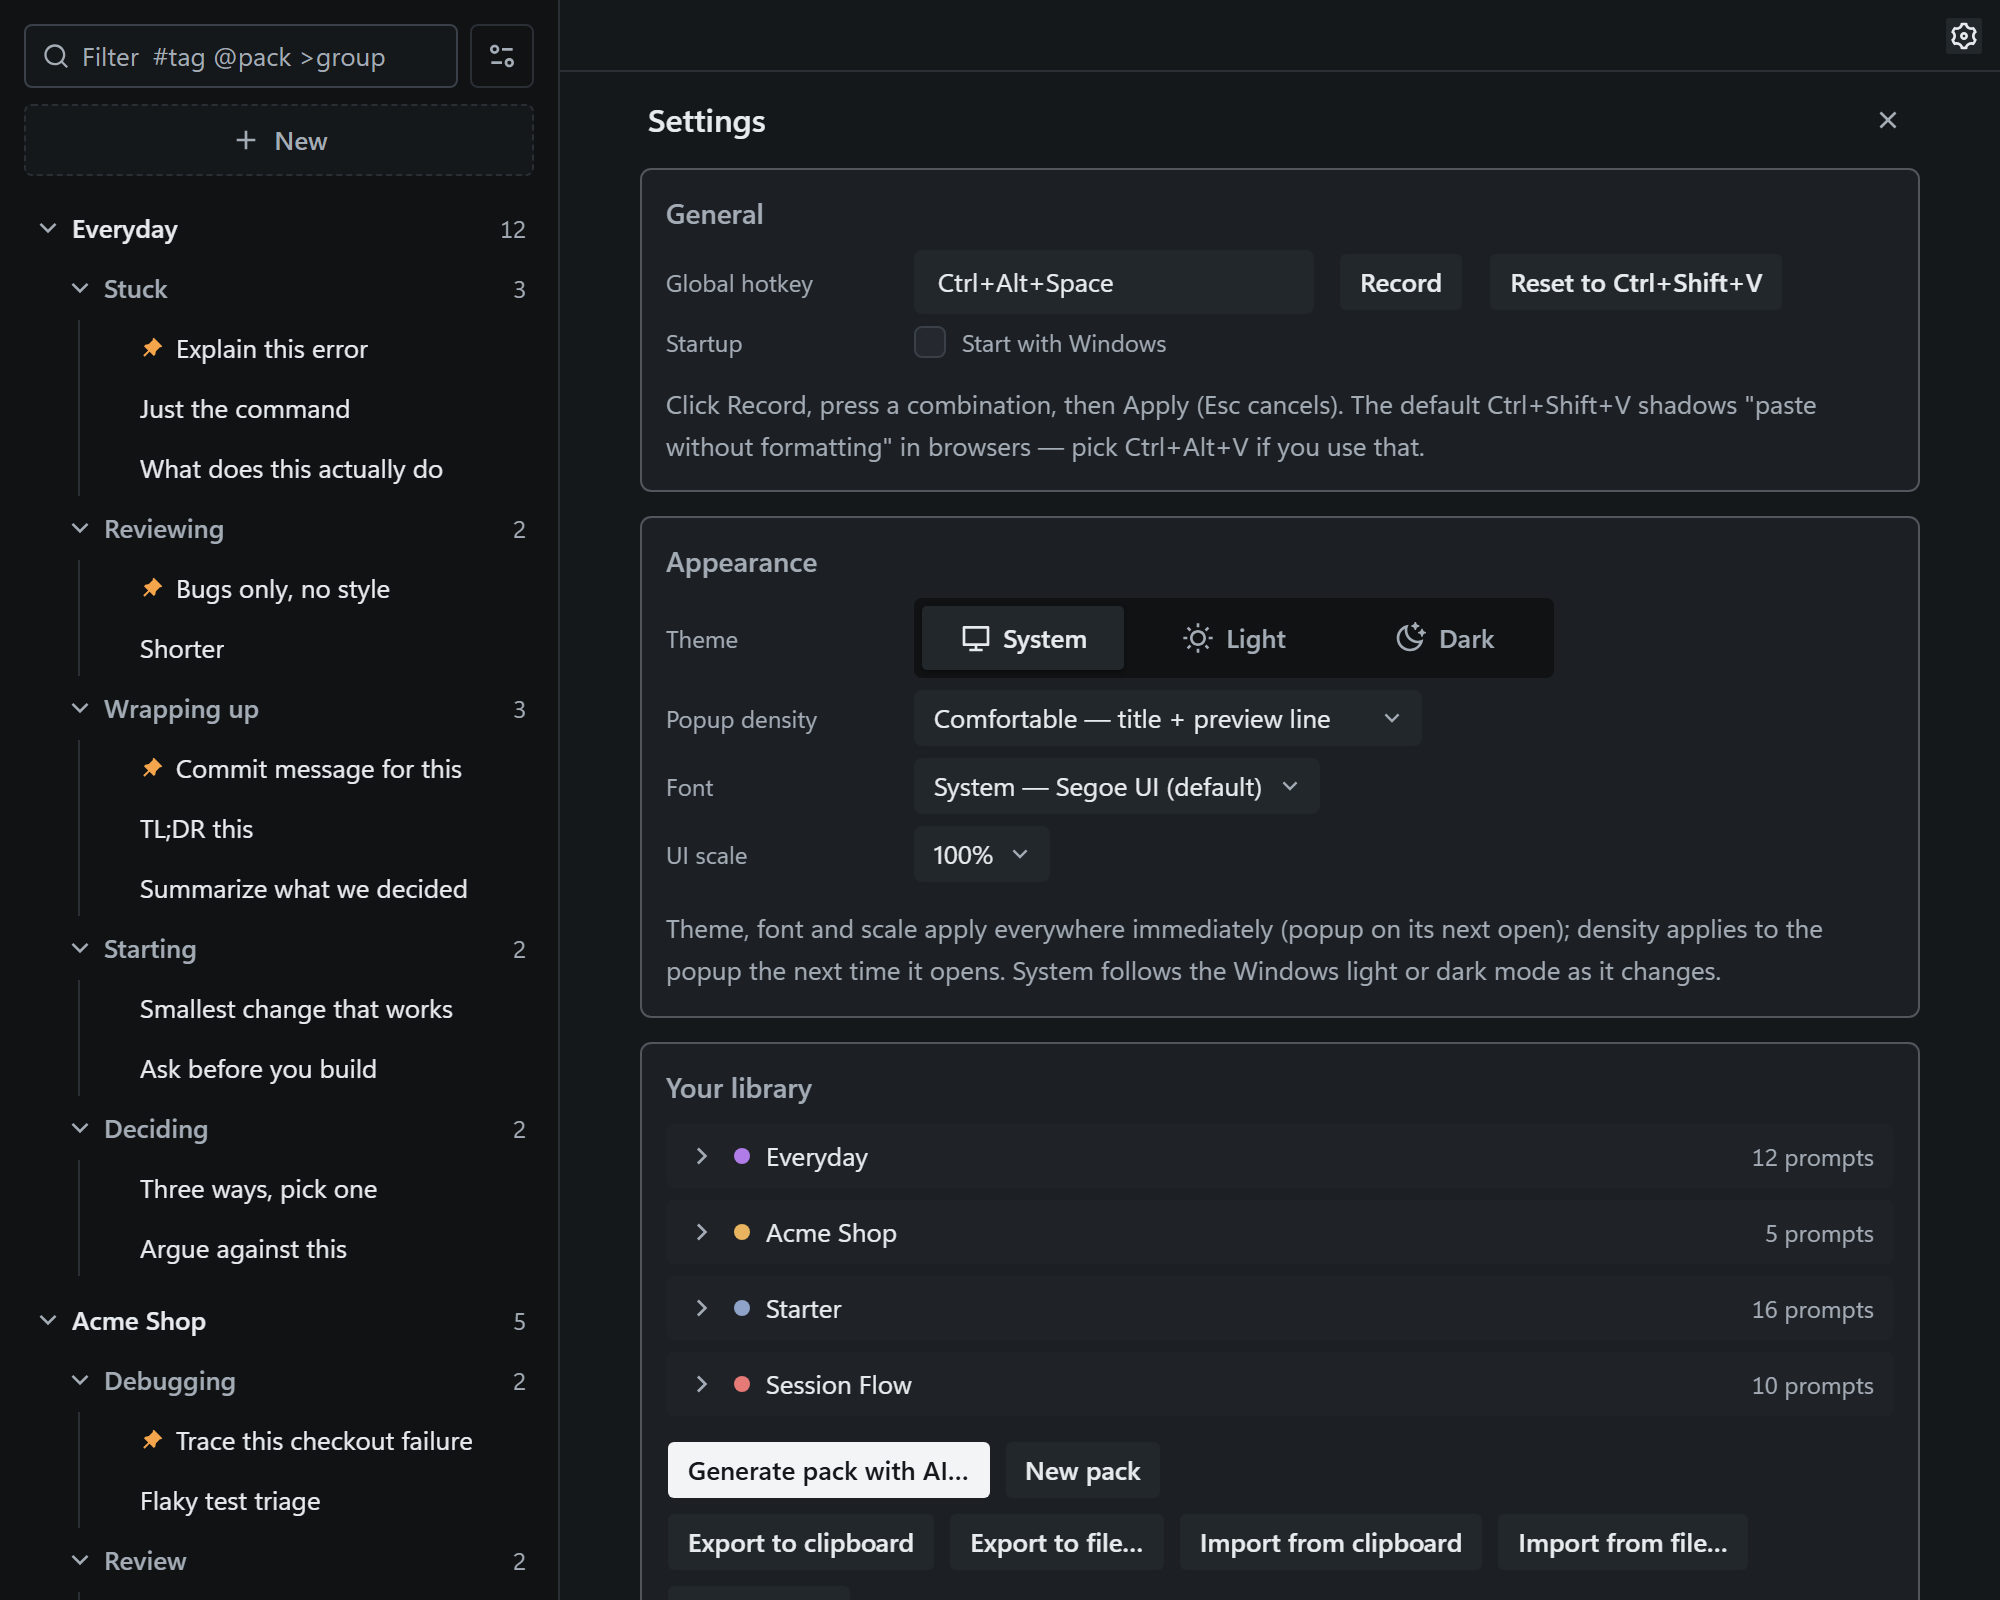
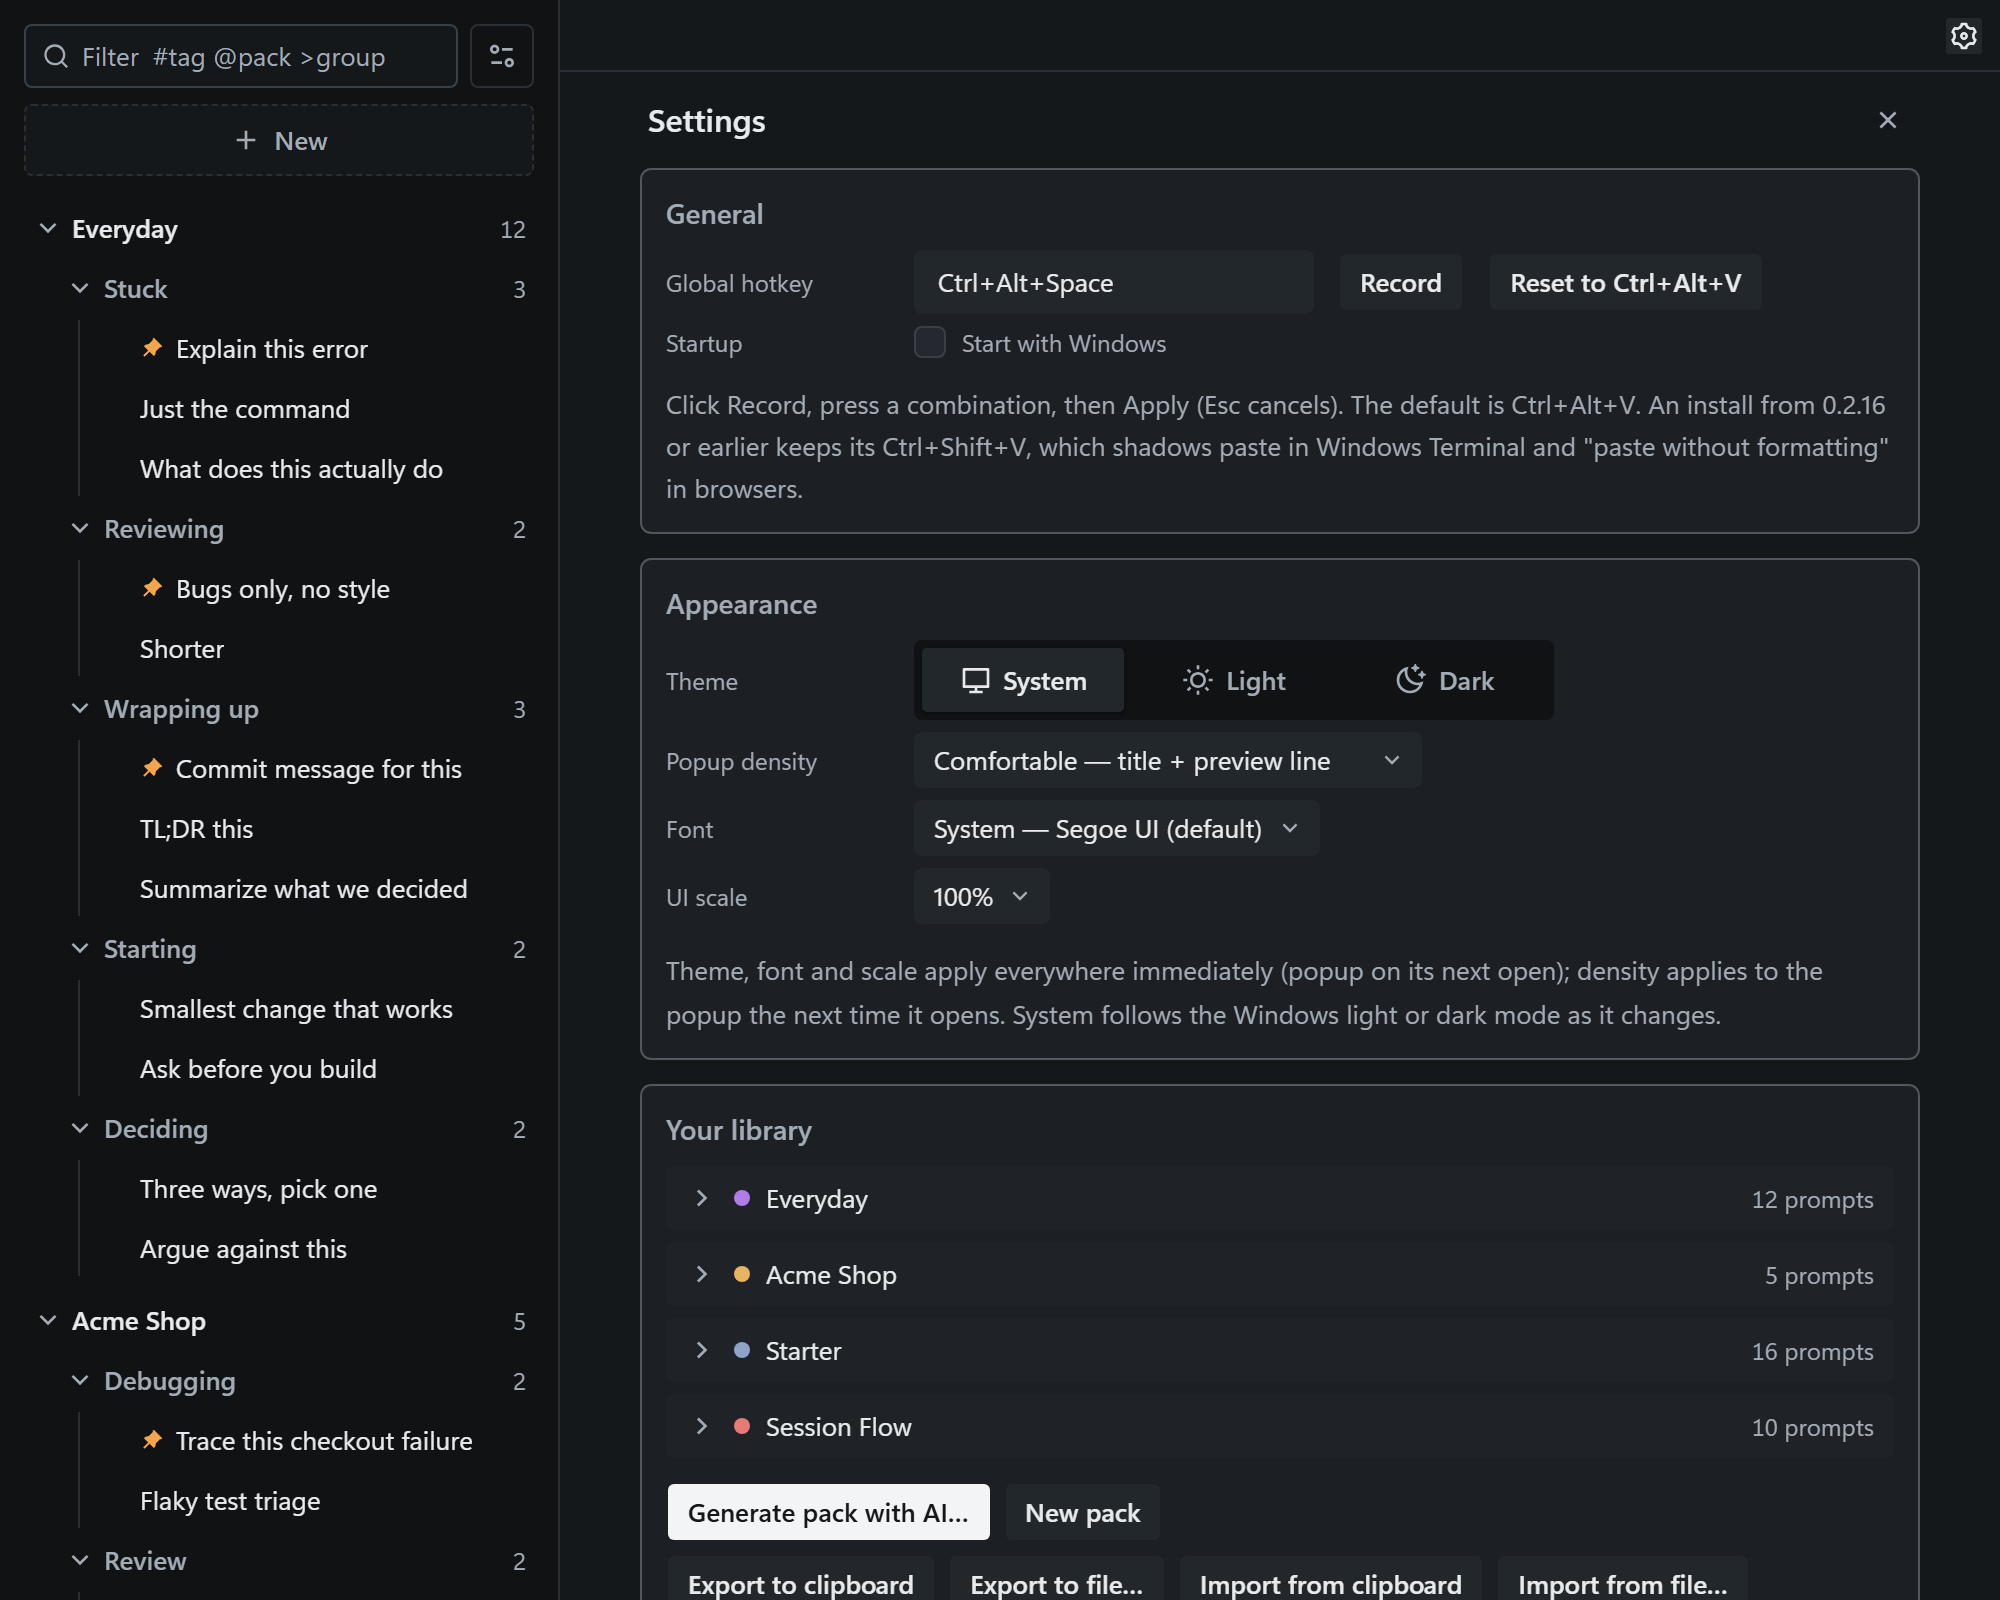
Manager: Settings resets to Ctrl+Alt+V and says who keeps Ctrl+Shift+V
Settings' Reset button and help text, and the hotkey state's initial
placeholder, now name Ctrl+Alt+V as the default (Rust's half landed in
6ebd4e1). The help text tells an install from 0.2.16 or earlier that
it keeps its Ctrl+Shift+V rather than suggesting the switch as if it
were still the default. BEHAVIOR.md's "The hotkey" section gets one
more sentence for this. The Settings screenshots are the only shot
staging that surface, so both themes are refreshed via `npm run
shots`; an unrelated one-pixel diff in manager-generate-light.png from
the same run was reverted as noise.

diff --git a/src/manager/Settings.tsx b/src/manager/Settings.tsx
@@ -77,7 +77,7 @@ export function Settings() {
     }
   }, [deleteArm])
 
-  const DEFAULT_HOTKEY = "ctrl+shift+v"
+  const DEFAULT_HOTKEY = "ctrl+alt+v"
 
   const onHotkeyKeyDown = (e: React.KeyboardEvent<HTMLInputElement>) => {
     // A keydown with no key (autofill) or one during IME composition is no hotkey
@@ -222,8 +222,9 @@ export function Settings() {
           </label>
         </Row>
         <p id="setting-hotkey-help" className="mt-3 text-ui leading-relaxed text-muted-foreground">
-          Click Record, press a combination, then Apply (Esc cancels). The default Ctrl+Shift+V shadows "paste
-          without formatting" in browsers — pick Ctrl+Alt+V if you use that.
+          Click Record, press a combination, then Apply (Esc cancels). The default is Ctrl+Alt+V. An install from
+          0.2.16 or earlier keeps its Ctrl+Shift+V, which shadows paste in Windows Terminal and "paste without
+          formatting" in browsers.
         </p>
       </Card>
 

diff --git a/src/manager/App.tsx b/src/manager/App.tsx
@@ -34,7 +34,7 @@ export function App() {
   const [selectionAnchor, setSelectionAnchor] = useState<string | null>(null)
   const [settingsOpen, setSettingsOpen] = useState(false)
   const [genOpen, setGenOpen] = useState(false)
-  const [hotkey, setHotkeyState] = useState("ctrl+shift+v")
+  const [hotkey, setHotkeyState] = useState("ctrl+alt+v")
   const [prefs, setPrefs] = useState<Prefs>({ theme: "dark", density: "comfortable", scale: "100", font: "system" })
   const [firstRun, setFirstRun] = useState<"hidden" | "show" | "done">("hidden")
   const [view, setView] = useState<View>({ kind: "prompt" })

diff --git a/BEHAVIOR.md b/BEHAVIOR.md
@@ -712,7 +712,8 @@ folder with none of the three (the log file doesn't count; the log
 plugin creates it first) is a fresh install, and it takes Ctrl+Alt+V. A
 `config.json` that fails to parse is still quarantined and replaced by
 defaults, now Ctrl+Alt+V; the notice says the old hotkey is in the
-quarantined file.
+quarantined file. Settings' Reset offers Ctrl+Alt+V to every install, old
+or new, and its help text says who still has Ctrl+Shift+V.
 
 A combination the OS refuses at startup — another program owns it — is a
 notice, not a fatal error: the tray and the manager still come up, because
